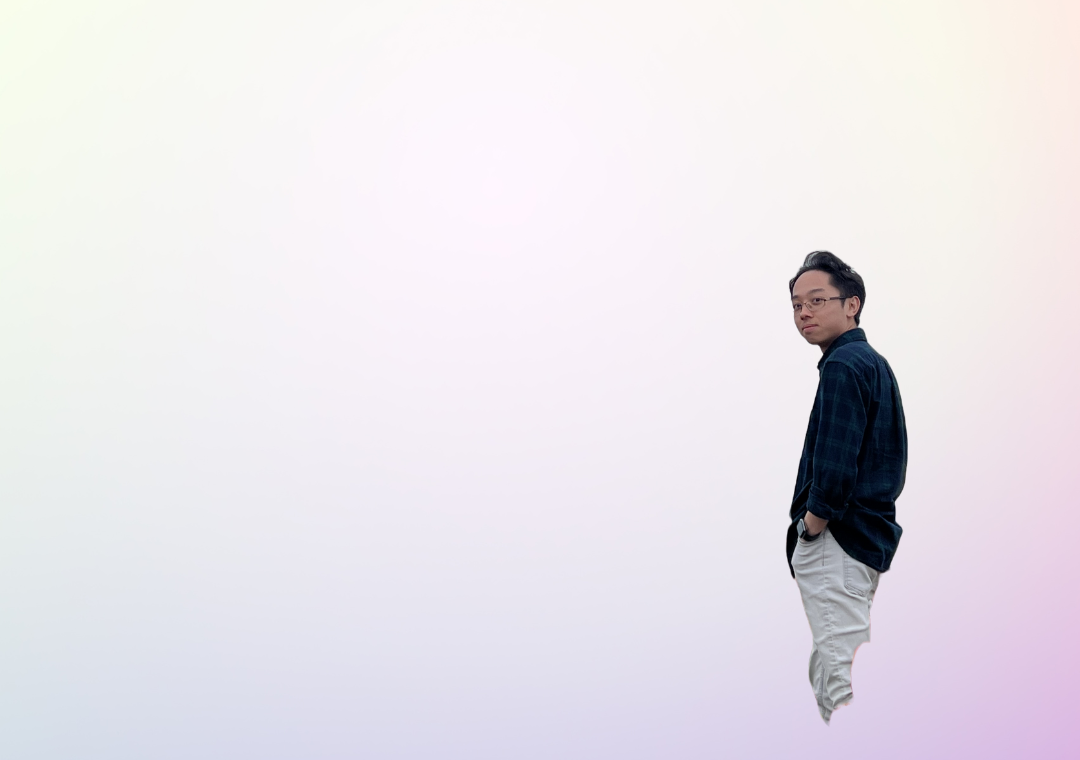
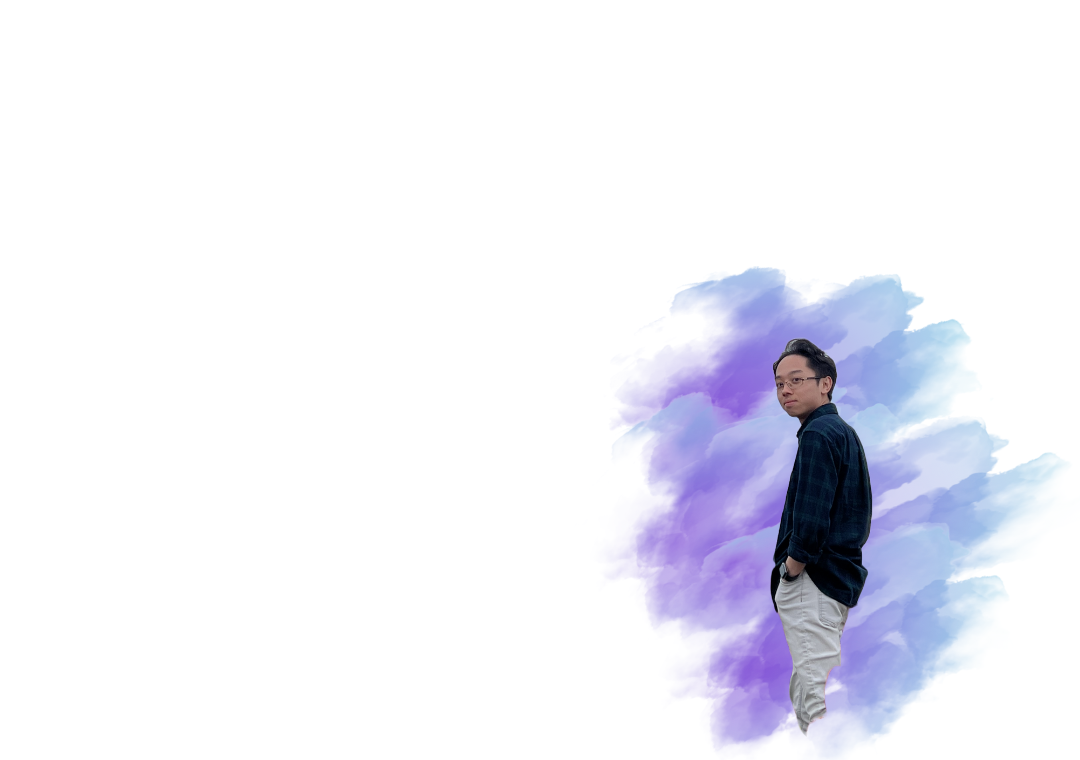
Add files via upload

diff --git a/style.css b/style.css
@@ -11,8 +11,8 @@ html {
 
 body {
     background: #FFFFFF;
-    background: radial-gradient(at center, #FFFFFF, #FFEAFF);
-    color: #716ce9;
+    /* background: radial-gradient(at center, #FFFFFF, #FFEAFF); */
+    color: #080808;
 }
 
 #header {
@@ -61,7 +61,7 @@ nav ul li {
 nav ul li a {
     position: relative;
     text-decoration: none;
-    color: #680aff;
+    color: #080808;
     font-size: 18px;
     transition: 0.6s;
 }
@@ -70,7 +70,7 @@ nav ul li a::after {
     content: '';
     width: 0;
     height: 3px;
-    background: #dd75eb;
+    background: #716ce9;
     position: absolute;
     left: 0;
     bottom: -6px;
@@ -97,7 +97,7 @@ nav ul li a:hover::after {
 }
 
 .header-text h1 span {
-    color: #dd75eb;
+    color: #716ce9;
     transition: font-size 0.3s ease-in-out;
 }
 
@@ -108,7 +108,7 @@ nav ul li a:hover::after {
 /*-------------------about-----------------*/
 #about {
     padding: 80px 0;
-    color: #716ce9;
+    color: #080808;
 }
 
 .row {
@@ -133,7 +133,7 @@ nav ul li a:hover::after {
 .sub-title {
     font-size: 60px;
     font-weight: 600;
-    color: #716ce9;
+    color: #080808;
 }
 
 .tab-titles {
@@ -153,7 +153,7 @@ nav ul li a:hover::after {
     content: '';
     width: 0;
     height: 3px;
-    background: #dd75eb;
+    background: #716ce9;
     position: absolute;
     left: 0;
     bottom: -8px;
@@ -170,7 +170,7 @@ nav ul li a:hover::after {
 }
 
 .tab-contents ul li span {
-    color: #dd75eb;
+    color: #716ce9;
     font-size: 14px;
 }
 
@@ -213,13 +213,13 @@ nav ul li a:hover::after {
 }
 
 .work p {
-    color: #fff; 
+    color: #fff;
 }
 
 .layer {
     width: 100%;
     height: 0;
-    background: linear-gradient(rgba(0, 0, 0, 0.6), #dd75eb);
+    background: linear-gradient(rgba(0, 0, 0, 0.6), #716ce9);
     border-radius: 10px;
     position: absolute;
     left: 0;
@@ -242,7 +242,7 @@ nav ul li a:hover::after {
 
 .layer a {
     margin-top: 20px;
-    color: #dd75eb;
+    color: #716ce9;
     text-decoration: none;
     font-size: 40px;
     line-height: 60px;
@@ -305,13 +305,13 @@ nav ul li a:hover::after {
     text-decoration: none;
     font-size: 30px;
     margin-right: 15px;
-    color: #716ce9;
+    color: #ababab;
     display: inline-block;
     transition: transform 0.5s;
 }
 
 .skills-icons i:hover {
-    color: #dd75eb;
+    color: #716ce9;
     transform: translateY(-5px);
 }
 
@@ -329,7 +329,7 @@ nav ul li a:hover::after {
 }
 
 .social-icons a:hover {
-    color: #dd75eb;
+    color: #716ce9;
     transform: translateY(-5px);
 }
 
@@ -349,21 +349,13 @@ form textarea {
     width: 100%;
     border: 0;
     outline: none;
-    background: #716ce9;
+    background: #e6e6e6;
     padding: 15px;
     margin: 15px 0;
     color: #fff;
     font-size: 18px;
     border-radius: 6px;
 }
-
-form textarea::placeholder {
-    color: #fff;
-  }
-
-  form input::placeholder {
-    color: #fff;
-  }
 
 form .btn2 {
     padding: 14px 60px;
@@ -376,7 +368,7 @@ form .btn2 {
     width: 100%;
     text-align: center;
     padding: 15px 0;
-    background: #716ce9;
+    background: #080808;
     font-weight: 300;
     margin-top: 20px;
     color: #fff;
@@ -439,7 +431,7 @@ nav .fas {
         left: 25px;
         cursor: pointer;
     }
-    
+
     #bars {
         position: right;
         margin-left: 4%;
@@ -520,7 +512,7 @@ nav .fas {
         left: 25px;
         cursor: pointer;
     }
-    
+
     #bars {
         display: none;
     }
@@ -564,7 +556,7 @@ nav .fas {
     left: 0;
     width: 100%;
     height: 100%;
-    background-color: #080808;
+    background-color: #fff;
     z-index: 1000;
 }
 
@@ -581,32 +573,45 @@ nav .fas {
     align-items: center;
 }
 
-/* Styles for the progress bar */
 .custom-loader {
     position: absolute;
     top: 50%;
     left: 50%;
     width: 60px;
     height: 60px;
-    border:15px solid #E4E4ED;
+    border: 15px solid #E4E4ED;
     border-radius: 50%;
     position: relative;
-    transform:rotate(45deg);
-  }
-  .custom-loader::before {
+    transform: rotate(45deg);
+}
+
+.custom-loader::before {
     content: "";
     position: absolute;
-    inset:-15px;
+    inset: -15px;
     border-radius: 50%;
-    border:15px solid #dd75eb;
+    border: 15px solid #716ce9;
     animation: p8 1s infinite linear;
-  }
-  
-  @keyframes p8 {
-      0%   {clip-path:polygon(50% 50%,0 0,0    0,0    0   ,0    0   ,0    0   )}
-      25%  {clip-path:polygon(50% 50%,0 0,100% 0,100% 0   ,100% 0   ,100% 0   )}
-      50%  {clip-path:polygon(50% 50%,0 0,100% 0,100% 100%,100% 100%,100% 100%)}
-      75%  {clip-path:polygon(50% 50%,0 0,100% 0,100% 100%,0    100%,0    100%)}
-      100% {clip-path:polygon(50% 50%,0 0,100% 0,100% 100%,0    100%,0    0   )}
-  }
+}
 
+@keyframes p8 {
+    0% {
+        clip-path: polygon(50% 50%, 0 0, 0 0, 0 0, 0 0, 0 0)
+    }
+
+    25% {
+        clip-path: polygon(50% 50%, 0 0, 100% 0, 100% 0, 100% 0, 100% 0)
+    }
+
+    50% {
+        clip-path: polygon(50% 50%, 0 0, 100% 0, 100% 100%, 100% 100%, 100% 100%)
+    }
+
+    75% {
+        clip-path: polygon(50% 50%, 0 0, 100% 0, 100% 100%, 0 100%, 0 100%)
+    }
+
+    100% {
+        clip-path: polygon(50% 50%, 0 0, 100% 0, 100% 100%, 0 100%, 0 0)
+    }
+}
